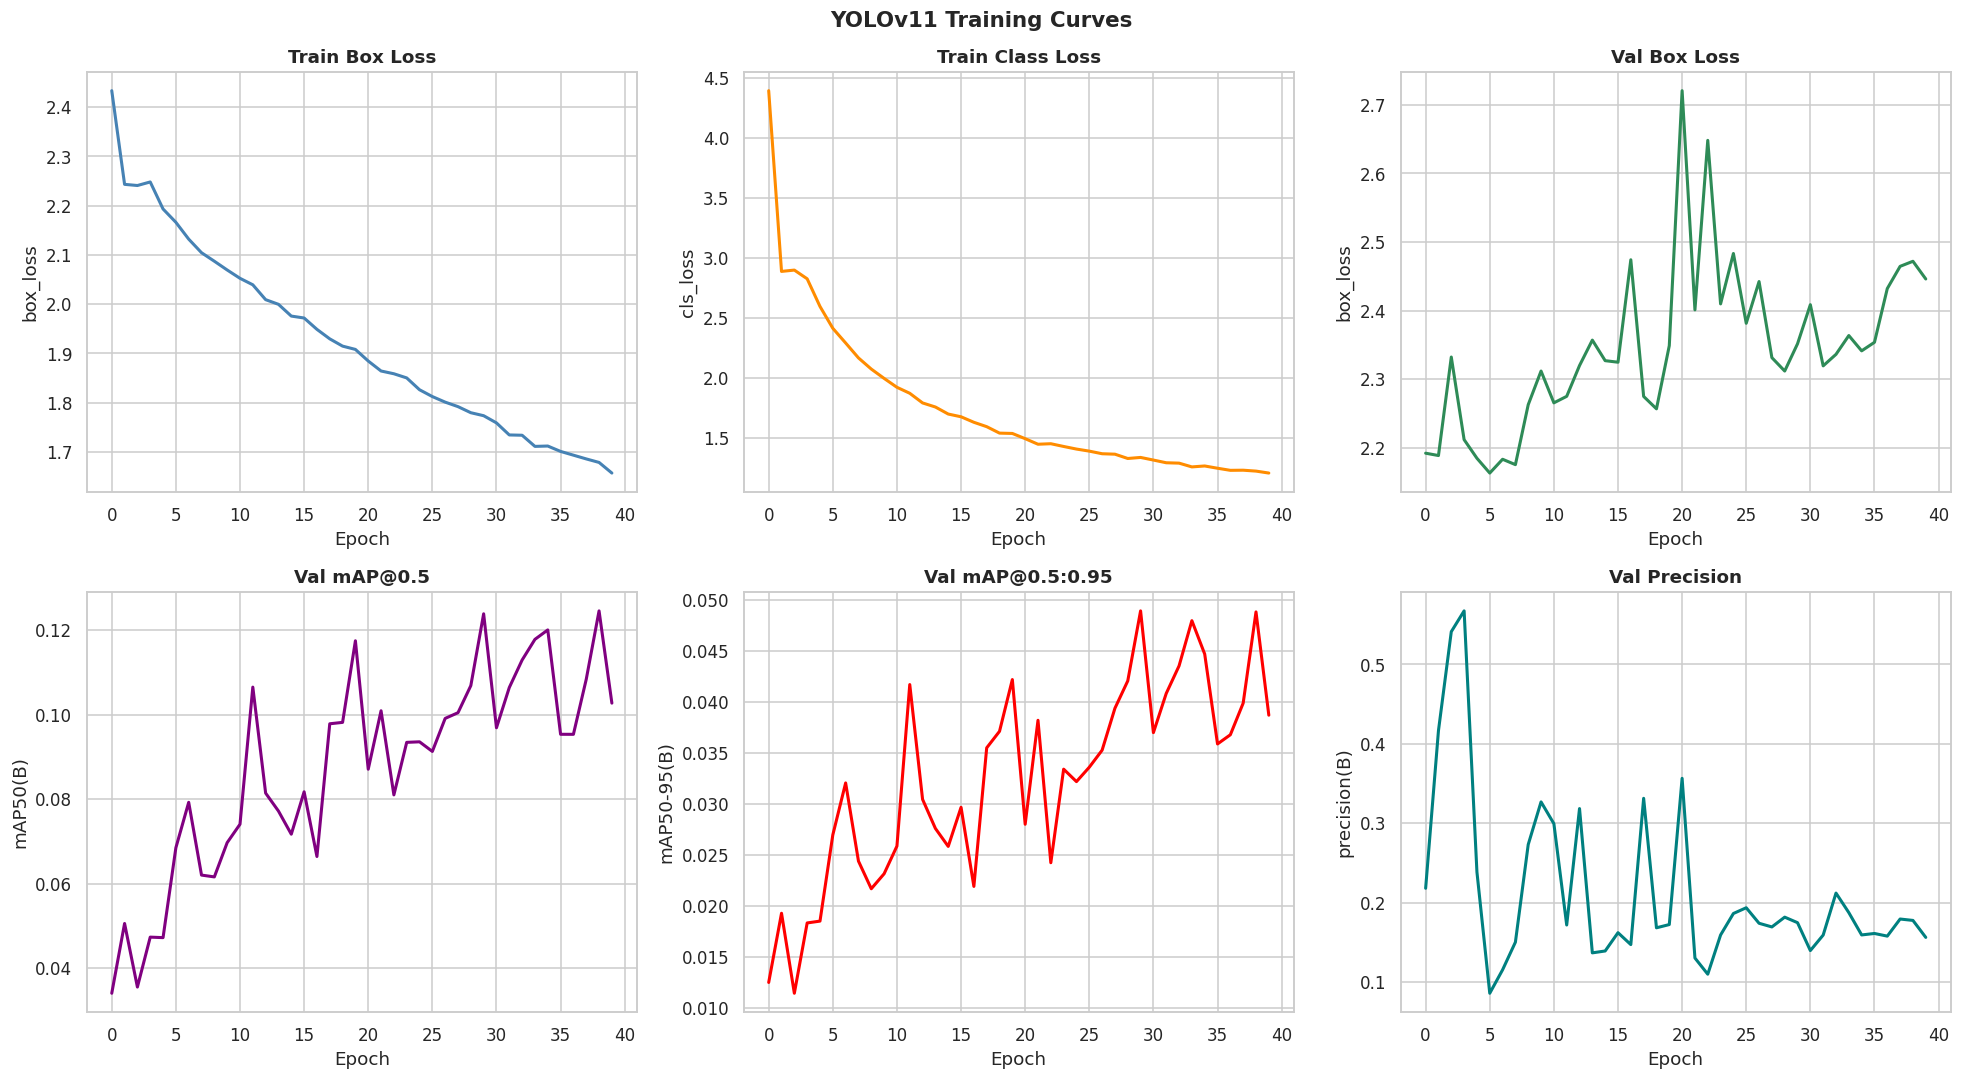
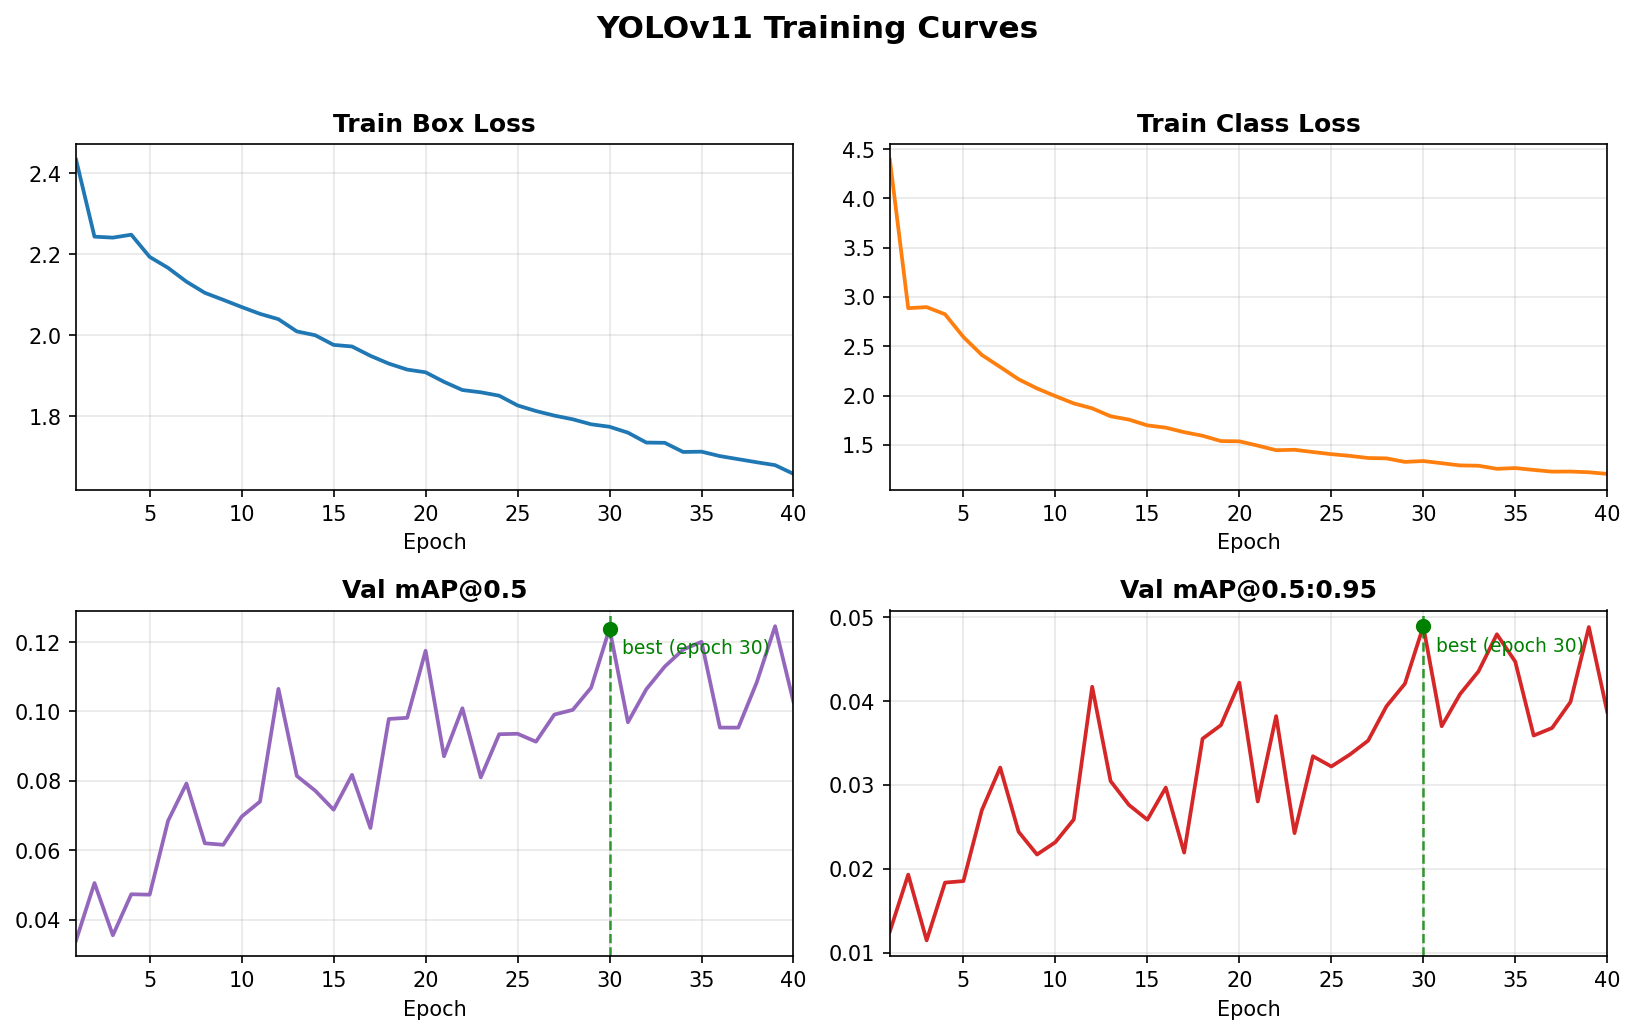
Clean training curves plot, update README + SHOWCASE explanations

diff --git a/make_training_plot.py b/make_training_plot.py
@@ -1,0 +1,38 @@
+import pandas as pd
+import matplotlib.pyplot as plt
+
+df = pd.read_csv(r"C:\Users\dilya\Downloads\results.csv")
+df.columns = [c.strip() for c in df.columns]
+
+epoch = df["epoch"]
+best = 30  
+
+fig, axes = plt.subplots(2, 2, figsize=(11, 7))
+fig.suptitle("YOLOv11 Training Curves", fontsize=15, fontweight="bold")
+
+panels = [
+    (axes[0, 0], "train/box_loss",        "Train Box Loss",     "#1f77b4"),
+    (axes[0, 1], "train/cls_loss",        "Train Class Loss",   "#ff7f0e"),
+    (axes[1, 0], "metrics/mAP50(B)",      "Val mAP@0.5",        "#9467bd"),
+    (axes[1, 1], "metrics/mAP50-95(B)",   "Val mAP@0.5:0.95",   "#d62728"),
+]
+
+for ax, col, title, color in panels:
+    ax.plot(epoch, df[col], color=color, linewidth=1.8)
+    ax.set_title(title, fontsize=12, fontweight="bold")
+    ax.set_xlabel("Epoch")
+    ax.set_xlim(1, epoch.max())
+    ax.grid(True, alpha=0.3)
+    # mark best epoch on the two validation panels
+    if col.startswith("metrics"):
+        ax.axvline(best, color="green", linestyle="--", linewidth=1.2, alpha=0.8)
+        yval = df.loc[df["epoch"] == best, col].values[0]
+        ax.scatter([best], [yval], color="green", zorder=5, s=40)
+        ax.annotate(f"best (epoch {best})", xy=(best, yval),
+                    xytext=(6, -12), textcoords="offset points",
+                    fontsize=9, color="green")
+
+plt.tight_layout(rect=[0, 0, 1, 0.96])
+out = r"C:\Users\dilya\Desktop\Computer_Vision\reports\yolo_training_curves_clean.png"
+plt.savefig(out, dpi=150, bbox_inches="tight")
+print("saved:", out)

diff --git a/README.md b/README.md
@@ -1,9 +1,9 @@
 # Reliability-Aware Wildlife Detection in Aerial Drone Imagery
 
-We detect animals in thermal drone footage and, for each detection, also say how much
-you can trust it: is the animal blurry, and is it partly hidden? A normal detector just
+We detect animals in thermal drone footage and, for each detection, also rate how much
+it can be trusted: is the animal blurry, and is it partly hidden? A normal detector just
 draws a box. The point here is to tell a researcher which boxes are solid and which ones
-to double-check.
+need a second look.
 
 ## What it does
 
@@ -35,9 +35,9 @@ re-running, every detection metric went up:
 
 | Problem in the first run | Fix |
 |--------------------------|-----|
-| The model trained at high resolution (1280) but was evaluated at 640 - the tiny animals basically vanish at the smaller size, so the score looked worse than the model really was | Evaluate at the same 1280 it was trained on |
-| The animal crops were saved as JPEG, which blurs them - a problem when the whole point is measuring blur | Save crops as lossless PNG |
-| "no-animal" was being used as a detection class - you can't draw a box around nothing, and it dragged the average down | Drop it, keep the 7 real species |
+| The model trained at high resolution (1280) but was evaluated at 640, where the tiny animals basically vanish, so the score looked worse than the model really was | Evaluate at the same 1280 it was trained on |
+| The animal crops were saved as JPEG, which blurs them, a problem when the whole point is measuring blur | Save crops as lossless PNG |
+| "no-animal" was being used as a detection class, but there is nothing to put a box around, and it dragged the average down | Drop it, keep the 7 real species |
 
 Detection results on the test set, first run vs after the fixes:
 
@@ -47,6 +47,10 @@ Detection results on the test set, first run vs after the fixes:
 | mAP@0.5:0.95 | 0.063 | **0.080** |
 | Precision | 0.308 | **0.512** |
 | Recall | 0.204 | **0.221** |
+
+We also tested the resolution choice directly by training a version at 640. It scored
+lower than the original run, which confirmed the animals are too small to survive the
+lower resolution, so we kept everything at 1280.
 
 The same crop fix (PNG instead of JPEG) also helped the sharpness classifier, whose
 F1 went from 0.91 to 0.96.
@@ -61,11 +65,13 @@ split by flight (~70/15/15), and cut out a small padded crop of every animal.
   the dark background masked out. A threshold splits crops into sharp vs blurry; we
   picked it by eye from a calibration grid.
 - *Occlusion* is read straight from the BAMBI class code, whose last digit already records
-  whether the original annotators saw the animal as visible or occluded - so no manual
-  labelling needed.
+  whether the original annotators saw the animal as visible or occluded, so no manual
+  labelling is needed.
 
 **Models (Notebook 3).** YOLOv11s (pretrained on COCO) for detection, and two
-EfficientNet-B0 networks for the sharpness and occlusion classifiers. Both classifiers
+EfficientNet-B0 networks for the sharpness and occlusion classifiers. The detector was
+fine-tuned at 1280 with early stopping: the best model came at epoch 30, and training
+stopped at epoch 40 once ten more epochs brought no improvement. Both classifiers
 use class weights because the data is heavily imbalanced.
 
 **Pipeline.** One function: image -> detect -> crop each animal -> run both classifiers ->
@@ -92,8 +98,8 @@ red-deer (by far the most common class) is detected best; the rarest species are
 
 **Manual sharpness check (Notebook 4):** a classifier trained on 100 hand-picked images
 (50 clear, 50 blurry) reached F1 0.83 on the held-out images. Worth noting: the
-auto-labelled sharpness classifier scores higher (0.96 vs 0.83) - but that's partly
-because it's effectively learning to reproduce the Laplacian rule it was labelled with,
+auto-labelled sharpness classifier scores higher (0.96 vs 0.83), but that is partly
+because it is effectively learning to reproduce the Laplacian rule it was labelled with,
 while this manual version is the stricter, human-grounded check.
 
 A visual walkthrough of all the charts and tables is in [SHOWCASE.md](SHOWCASE.md).
@@ -111,7 +117,7 @@ A visual walkthrough of all the charts and tables is in [SHOWCASE.md](SHOWCASE.m
 
 The trained model weights are included in `models/` (YOLO detector + the two
 classifiers + the manual-sharpness model). The raw dataset, crops and CSVs are not in
-the repo (too big) - the dataset is the BAMBI ALFS thermal subset; place it in a
+the repo (too big). The dataset is the BAMBI ALFS thermal subset; place it in a
 `dataset/` folder next to the notebooks and run Notebooks 1 and 2 to regenerate the
 crops and split.
 
@@ -130,12 +136,12 @@ standalone and uses its own set of images.
 
 The heavy training (the YOLO detector and the two classifiers) was done on a cloud GPU (Azure) as detached background scripts, since the laptop we worked on has no GPU and
 training is slow. The notebooks then load the saved weights (in `models/`) to evaluate
-the models and run the pipeline - so you can reproduce all the results without retraining.
+the models and run the pipeline, so all the results can be reproduced without retraining.
 
 Because training ran as scripts rather than inside the notebooks, a couple of in-notebook
 outputs aren't present: the classifier training cells show no live output (we added a
 note in those cells), and the per-epoch training curves for the two classifiers aren't plotted (the scripts didn't log them). The confusion matrices, final metrics, and the
-YOLO training curves are all there - those are what the results rest on.
+YOLO training curves are all there, and those are what the results rest on.
 
 ## Limits and what's next
 
@@ -144,6 +150,8 @@ YOLO training curves are all there - those are what the results rest on.
 - **Compute**: high-res detection training is slow; an even higher resolution might push
   the small-animal detection further.
 - **Sharpness labels** are auto-generated, so that classifier is partly learning to copy a
-  formula - Notebook 4's hand-labelled version is the stricter check.
-- **Occlusion labels** come from the dataset's own codes
+  formula. Notebook 4's hand-labelled version is the stricter check.
+- **Occlusion labels** come from the dataset's own codes. Occlusion is a spectrum rather
+  than a clean yes or no, so some subjectivity is unavoidable; combining several judgments
+  would firm up the borderline cases.
 

diff --git a/SHOWCASE.md b/SHOWCASE.md
@@ -1,4 +1,4 @@
-# Results Showcase - Reliability-Aware Wildlife Detection
+# Results Showcase: Reliability-Aware Wildlife Detection
 
 A visual summary of the project's key results: the data, the trained models, the
 accuracy numbers, and the end-to-end pipeline. All figures are generated by the
@@ -7,7 +7,7 @@ notebooks and saved in `reports/` (and `notebook4_outputs/`).
 > Note on how this was produced: the YOLO detector and the two classifiers were trained
 > on a cloud GPU (Azure) as background scripts (the laptop has no GPU), and the notebooks
 > load the saved weights to evaluate them. One side effect: there are no per-epoch
-> training curves for the classifiers (the scripts didn't log them) - only the
+> training curves for the classifiers (the scripts didn't log them), only the
 > confusion matrices and final metrics. The YOLO training curves below are real (logged
 > automatically during training).
 
@@ -27,11 +27,15 @@ again. Every detection metric went up (test set):
 
 What we fixed between the two runs:
 - The model trained at 1280 but was being evaluated at 640, where the tiny animals
-  vanish - so we evaluate at the same 1280 it trained on.
-- The crops were saved as JPEG (which blurs them, bad when we measure blur) - switched
+  vanish, so we evaluate at the same 1280 it trained on.
+- The crops were saved as JPEG (which blurs them, bad when we measure blur), switched
   to lossless PNG.
-- "no-animal" was a detection class (you can't box nothing) - dropped it, kept 7 real
-  species.
+- "no-animal" was a detection class, but there is nothing to put a box around, so we
+  dropped it and kept the 7 real species.
+
+We also tested the resolution directly by training a version at 640. It scored lower than
+the original run, which confirmed the animals are too small for the lower resolution, so
+everything stayed at 1280.
 
 ---
 
@@ -39,20 +43,22 @@ What we fixed between the two runs:
 
 After cleaning: 17,630 images, 55,386 annotations, 190 flights, 7 species.
 
-**Week 1 - cleaned dataset summary**
+**Week 1: cleaned dataset summary**
 ![Week 1 summary](reports/week1_summary_dashboard.png)
 
 **Bounding-box statistics (animals are very small in the frame)**
 ![Box statistics](reports/bbox_statistics.png)
 
-**Week 2 - split, crops, and reliability labels**
+**Week 2: split, crops, and reliability labels**
 ![Week 2 summary](reports/week2_summary_dashboard.png)
 
 ---
 
 ## 2. Detection (YOLOv11)
 
-**Training curves**
+**Training curves.** YOLOv11s fine-tuned at 1280 with early stopping. The loss falls and
+the validation mAP climbs over training; the best model landed at epoch 30, and training
+stopped at epoch 40 once ten more epochs brought no improvement.
 ![Training curves](reports/yolo_training_curves.png)
 
 **Per-class accuracy (test set, mAP@0.5)**
@@ -84,7 +90,7 @@ Predicts whether a detected animal is sharp or blurry. Test-set results:
 **Confusion matrix**
 ![Sharpness eval](reports/sharpness_classifier_eval.png)
 
-**Label audit** - top row should look sharp, bottom row blurry (confirms the
+**Label audit.** Top row should look sharp, bottom row blurry (confirms the
 automatic Laplacian labels match human perception):
 ![Sharpness audit](reports/sharpness_label_audit.png)
 
@@ -142,7 +148,7 @@ As an independent sanity check, a classifier was trained on 100 hand-labelled im
 (50 clear, 50 blurry). It reached F1 = 0.83 on the held-out images.
 
 The comparison is the interesting part: the auto-labelled classifier scores 0.96 vs
-the manual classifier's 0.83. That doesn't mean the auto one is "better" - it scores
+the manual classifier's 0.83. That doesn't mean the auto one is "better". It scores
 higher mainly because it's learning to reproduce the same Laplacian rule that generated
 its labels. The manual classifier, trained on real human judgments, is the more honest
 measure of how hard sharpness actually is to predict.